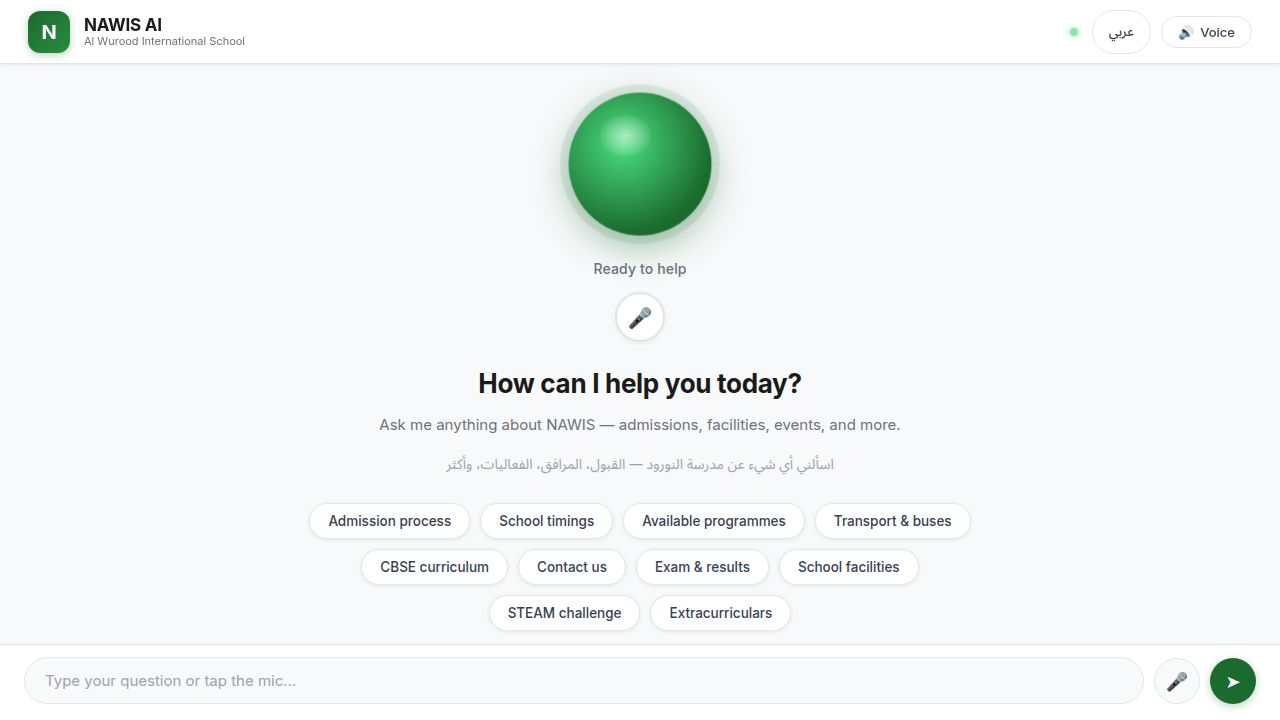
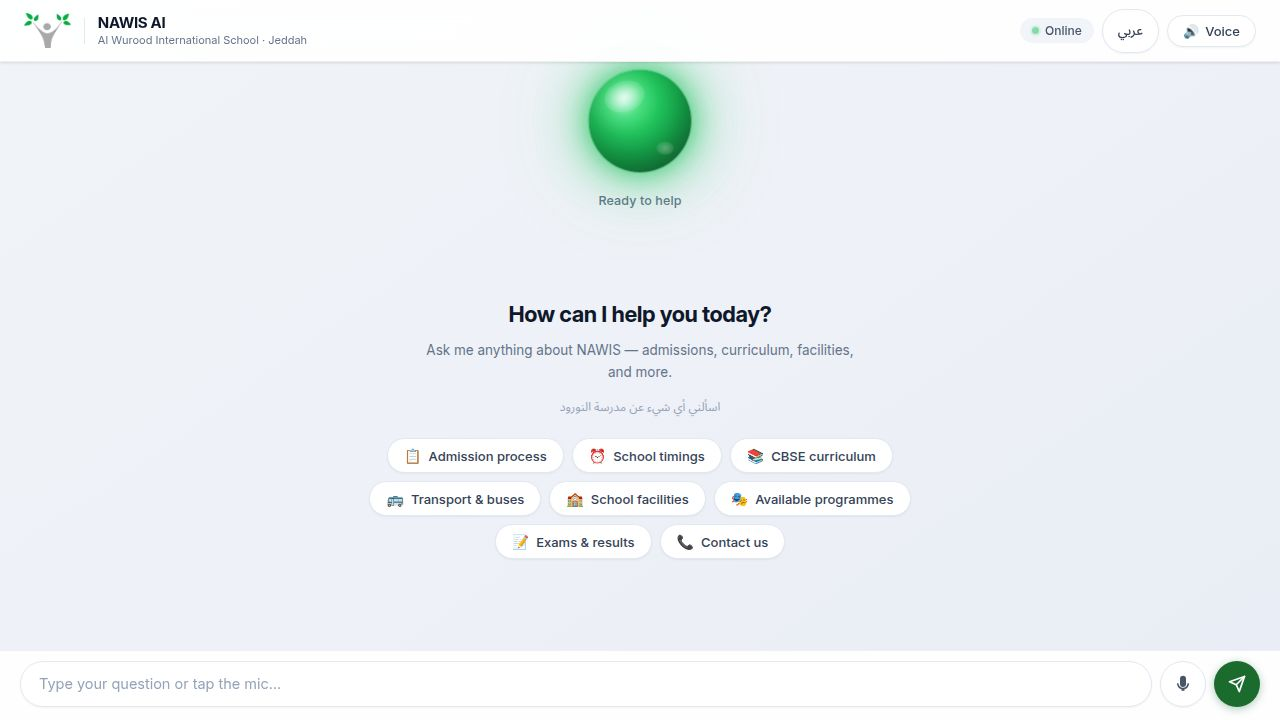
Improve website appearance and functionality with natural speech and better mic support
Replace edge-tts with browser-based speechSynthesis for natural text-to-speech, and implement Groq Whisper for accurate speech-to-text in English and Arabic. Updates school logo, refines UI for a modern look, and modifies office hours and grade structure details.

Replit-Commit-Author: Agent
Replit-Commit-Session-Id: 8fb9a503-dcf3-4fd8-90f7-8d00ba033f44
Replit-Commit-Checkpoint-Type: full_checkpoint
Replit-Commit-Event-Id: fba4415d-84d5-42d1-91ec-d04c524ee6c6
Replit-Commit-Screenshot-Url: https://storage.googleapis.com/screenshot-production-us-central1/a3e7052e-6b7f-4f90-a12a-8108f5e4623d/8fb9a503-dcf3-4fd8-90f7-8d00ba033f44/VqQ2DJJ
Replit-Helium-Checkpoint-Created: true

diff --git a/artifacts/nawis-ai/frontend/index.html b/artifacts/nawis-ai/frontend/index.html
@@ -531,9 +531,21 @@ const T = {
    STATE
 ───────────────────────────────────────── */
 let lang='en', ttsOn=true, isRec=false;
-let mediaRec=null, audioChunks=[], curAudio=null, busy=false;
+let mediaRec=null, audioChunks=[], curAudio=null, curUtter=null, busy=false;
 const app=document.getElementById('app');
 const orbLbl=document.getElementById('orb-lbl');
+
+/* Pre-load voices as soon as possible (browser may lazy-load) */
+let voicesLoaded=false;
+function loadVoices(){
+  const v=window.speechSynthesis?.getVoices()||[];
+  if(v.length>0)voicesLoaded=true;
+  return v;
+}
+if(window.speechSynthesis){
+  loadVoices();
+  window.speechSynthesis.onvoiceschanged=()=>{loadVoices();};
+}
 
 function setState(s){
   app.setAttribute('data-state',s);
@@ -576,7 +588,12 @@ function toggleTTS(){
   ttsOn=!ttsOn;
   $('tts-ico').textContent=ttsOn?'🔊':'🔇';
   $('tts-btn').classList.toggle('muted',!ttsOn);
-  if(!ttsOn&&curAudio){curAudio.pause();curAudio=null;setState('idle');}
+  if(!ttsOn){stopSpeaking();setState('idle');}
+}
+
+function stopSpeaking(){
+  if(curAudio){curAudio.pause();URL.revokeObjectURL(curAudio.src);curAudio=null;}
+  if(curUtter){window.speechSynthesis?.cancel();curUtter=null;}
 }
 
 /* ─────────────────────────────────────────
@@ -643,7 +660,7 @@ function scrollDown(){
 async function sendText(text){
   const t=text.trim();if(!t||busy)return;
   busy=true;$('user-input').value='';
-  if(curAudio){curAudio.pause();curAudio=null;}
+  stopSpeaking();
   addMsg('user',t);setState('thinking');addTyping();
   try{
     const r=await fetch('/chat',{method:'POST',headers:{'Content-Type':'application/json'},body:JSON.stringify({message:t,language:lang})});
@@ -662,56 +679,159 @@ function sendMessage(){const v=$('user-input').value.trim();if(v)sendText(v);}
 function onEnter(e){if(e.key==='Enter'&&!e.shiftKey){e.preventDefault();sendMessage();}}
 
 /* ─────────────────────────────────────────
-   TTS — edge-tts via /tts backend
+   TTS — browser speechSynthesis (primary)
+   Best neural voices on Windows: Edge/Chrome use Microsoft Natural voices.
+   Falls back to /tts (edge-tts backend) if browser synthesis not available.
 ───────────────────────────────────────── */
+
+/* Pick the best available voice for a language */
+function pickVoice(langCode){
+  const voices=window.speechSynthesis?.getVoices()||[];
+  const isAr=langCode==='ar';
+  const pref=isAr
+    ?['ar-SA','ar-EG','ar-AE','ar']
+    :['en-US','en-GB','en-AU','en'];
+
+  /* Priority order: Neural > Premium > Standard */
+  const keywords=['Neural','Natural','Premium','Enhanced','Online'];
+
+  for(const kw of keywords){
+    for(const lc of pref){
+      const v=voices.find(v=>v.lang.startsWith(lc)&&v.name.includes(kw)&&!v.name.toLowerCase().includes('zira'));
+      if(v)return v;
+    }
+  }
+  /* Any voice matching lang */
+  for(const lc of pref){
+    const v=voices.find(v=>v.lang.startsWith(lc));
+    if(v)return v;
+  }
+  return voices[0]||null;
+}
+
 async function speakText(text){
   if(!ttsOn){setState('idle');return;}
   setState('speaking');
+
+  /* ── Try browser speechSynthesis first ── */
+  if(window.speechSynthesis){
+    /* Give browser a moment to have voices if not yet loaded */
+    if(!voicesLoaded){
+      await new Promise(r=>{
+        const check=()=>{if(window.speechSynthesis.getVoices().length>0){voicesLoaded=true;r();}};
+        check();
+        window.speechSynthesis.onvoiceschanged=()=>check();
+        setTimeout(r,1500);
+      });
+    }
+    const voice=pickVoice(lang);
+    const utter=new SpeechSynthesisUtterance(text.slice(0,800));
+    utter.lang=lang==='ar'?'ar-SA':'en-US';
+    utter.rate=1.0;
+    utter.pitch=1.0;
+    utter.volume=1.0;
+    if(voice)utter.voice=voice;
+    curUtter=utter;
+    return new Promise(resolve=>{
+      utter.onend=()=>{curUtter=null;setState('idle');resolve();};
+      utter.onerror=async(e)=>{
+        console.warn('Browser TTS error:',e.error,'. Trying backend TTS…');
+        curUtter=null;
+        await speakViaBackend(text);
+        resolve();
+      };
+      /* Chrome bug: synthesis stalls after ~15s — keep it alive */
+      const keepAlive=setInterval(()=>{
+        if(!window.speechSynthesis.speaking){clearInterval(keepAlive);return;}
+        window.speechSynthesis.pause();
+        window.speechSynthesis.resume();
+      },10000);
+      utter.onend=()=>{clearInterval(keepAlive);curUtter=null;setState('idle');resolve();};
+      window.speechSynthesis.speak(utter);
+    });
+  }else{
+    await speakViaBackend(text);
+  }
+}
+
+/* Backend TTS fallback — great when running locally (edge-tts has network access) */
+async function speakViaBackend(text){
+  setState('speaking');
   try{
-    const r=await fetch('/tts?'+new URLSearchParams({text:text.slice(0,600),lang}));
-    if(!r.ok)throw new Error('TTS failed');
+    const r=await fetch('/tts?'+new URLSearchParams({text:text.slice(0,600),lang}),{signal:AbortSignal.timeout(12000)});
+    if(!r.ok)throw new Error('TTS HTTP '+r.status);
     const blob=await r.blob();
+    if(!blob.size)throw new Error('Empty audio');
     const url=URL.createObjectURL(blob);
     curAudio=new Audio(url);
-    curAudio.onended=()=>{setState('idle');URL.revokeObjectURL(url);curAudio=null;};
-    curAudio.onerror=()=>{setState('idle');curAudio=null;};
-    await curAudio.play();
-  }catch(e){console.warn('TTS:',e);setState('idle');}
+    await new Promise((res,rej)=>{
+      curAudio.onended=()=>{URL.revokeObjectURL(url);curAudio=null;setState('idle');res();};
+      curAudio.onerror=()=>{URL.revokeObjectURL(url);curAudio=null;setState('idle');res();};
+      curAudio.play().catch(rej);
+    });
+  }catch(e){
+    console.warn('Backend TTS failed:',e);
+    setState('idle');
+  }
 }
 
 /* ─────────────────────────────────────────
    STT — MediaRecorder → Groq Whisper
+   Uses MediaRecorder API (works in all modern browsers after mic permission).
+   Audio is sent to /stt which calls Groq whisper-large-v3-turbo.
 ───────────────────────────────────────── */
 async function toggleMic(){isRec?stopRec():await startRec();}
 
 async function startRec(){
   if(busy)return;
+  stopSpeaking();
+
+  /* Ensure MediaRecorder is supported */
+  if(!navigator.mediaDevices?.getUserMedia||!window.MediaRecorder){
+    toast('Voice input is not supported in this browser.','error');return;
+  }
+
   let stream;
-  try{stream=await navigator.mediaDevices.getUserMedia({audio:{channelCount:1,sampleRate:16000},video:false});}
-  catch(e){
-    if(e.name==='NotAllowedError'||e.name==='PermissionDeniedError'){toast(T[lang].tMicDeny,'error');}
-    else{toast(T[lang].tMicErr,'error');}
+  try{
+    stream=await navigator.mediaDevices.getUserMedia({audio:true,video:false});
+  }catch(e){
+    if(e.name==='NotAllowedError'||e.name==='PermissionDeniedError'){
+      toast(T[lang].tMicDeny,'error');
+    }else{
+      toast(T[lang].tMicErr,'error');
+      console.error('Mic error:',e);
+    }
     return;
   }
-  if(curAudio){curAudio.pause();curAudio=null;}
+
   audioChunks=[];isRec=true;setState('listening');
   $('rec-ind').classList.add('on');
-  $('user-input').style.opacity='.3';
+  $('user-input').style.opacity='.35';
   $('mic-btn').classList.add('rec');
   toast(T[lang].tMicStart);
 
-  const mime=['audio/webm;codecs=opus','audio/webm','audio/ogg','audio/mp4']
-    .find(m=>MediaRecorder.isTypeSupported(m))||'';
-  mediaRec=new MediaRecorder(stream,mime?{mimeType:mime}:{});
-  mediaRec.ondataavailable=e=>{if(e.data.size>0)audioChunks.push(e.data);};
+  /* Pick best supported MIME — Groq Whisper accepts webm/ogg/mp4/flac/mp3/wav */
+  const mime=['audio/webm;codecs=opus','audio/webm','audio/ogg;codecs=opus','audio/ogg','audio/mp4']
+    .find(m=>{try{return MediaRecorder.isTypeSupported(m);}catch{return false;}})||'';
+
+  try{
+    mediaRec=new MediaRecorder(stream,mime?{mimeType:mime}:{});
+  }catch(e){
+    mediaRec=new MediaRecorder(stream);
+  }
+
+  mediaRec.ondataavailable=e=>{if(e.data&&e.data.size>0)audioChunks.push(e.data);};
   mediaRec.onstop=async()=>{stream.getTracks().forEach(t=>t.stop());await transcribe();};
-  mediaRec.start();
-  setTimeout(()=>{if(isRec)stopRec();},12000);
+  mediaRec.start(200); /* collect in 200ms chunks for reliability */
+
+  /* Auto-stop after 14 seconds */
+  setTimeout(()=>{if(isRec)stopRec();},14000);
 }
 
 function stopRec(){
   if(!isRec||!mediaRec)return;
-  isRec=false;mediaRec.stop();
+  isRec=false;
+  try{if(mediaRec.state!=='inactive')mediaRec.stop();}catch(e){console.warn(e);}
   $('rec-ind').classList.remove('on');
   $('user-input').style.opacity='1';
   $('mic-btn').classList.remove('rec');
@@ -720,19 +840,35 @@ function stopRec(){
 async function transcribe(){
   if(!audioChunks.length){setState('idle');toast(T[lang].tMicErr,'error');return;}
   setState('thinking');toast(T[lang].tXcribe);
-  const mime=audioChunks[0].type||'audio/webm';
-  const ext=mime.includes('ogg')?'ogg':mime.includes('mp4')?'mp4':'webm';
-  const blob=new Blob(audioChunks,{type:mime});audioChunks=[];
-  const fd=new FormData();fd.append('audio',blob,`rec.${ext}`);
+
+  const type=audioChunks[0].type||'audio/webm';
+  const ext=type.includes('ogg')?'ogg':type.includes('mp4')?'mp4':'webm';
+  const blob=new Blob(audioChunks,{type});
+  audioChunks=[];
+
+  if(blob.size<300){setState('idle');toast(T[lang].tMicErr,'error');return;}
+
+  const fd=new FormData();
+  fd.append('audio',blob,`recording.${ext}`);
+
   try{
-    const r=await fetch(`/stt?lang=${lang}`,{method:'POST',body:fd});
-    if(!r.ok)throw new Error('STT '+r.status);
+    const r=await fetch(`/stt?lang=${lang}`,{method:'POST',body:fd,signal:AbortSignal.timeout(20000)});
+    if(!r.ok)throw new Error('STT HTTP '+r.status);
     const d=await r.json();
+    if(d.error){console.warn('STT error:',d.error);}
     if(d.text?.trim()){
       $('user-input').value=d.text.trim();
-      setState('idle');await sendText(d.text.trim());
-    }else{setState('idle');toast(T[lang].tMicErr,'error');}
-  }catch(e){console.error('STT:',e);setState('idle');toast(T[lang].tConn,'error');}
+      setState('idle');
+      await sendText(d.text.trim());
+    }else{
+      setState('idle');
+      toast(T[lang].tMicErr,'error');
+    }
+  }catch(e){
+    console.error('STT fetch:',e);
+    setState('idle');
+    toast(T[lang].tConn,'error');
+  }
 }
 
 /* ─────────────────────────────────────────

diff --git a/artifacts/nawis-ai/app.py b/artifacts/nawis-ai/app.py
@@ -339,7 +339,8 @@ async def speech_to_text(audio: UploadFile = File(...), lang: str = Query("en"))
 
 @app.get("/tts")
 async def text_to_speech(text: str = Query(...), lang: str = Query("en")):
-    """Stream natural TTS audio via edge-tts (Microsoft Neural voices)."""
+    """Stream natural TTS audio via edge-tts (Microsoft Neural voices).
+    Used when running locally — in Replit the browser handles TTS directly."""
     try:
         import edge_tts
     except ImportError:
@@ -350,16 +351,23 @@ async def text_to_speech(text: str = Query(...), lang: str = Query("en")):
     if not clean_text:
         raise HTTPException(400, "Empty text")
 
-    async def audio_stream():
+    buf = bytearray()
+    try:
         communicate = edge_tts.Communicate(text=clean_text, voice=voice, rate="+2%")
         async for chunk in communicate.stream():
             if chunk["type"] == "audio":
-                yield chunk["data"]
+                buf.extend(chunk["data"])
+    except Exception as exc:
+        logger.error("edge-tts error: %s", exc)
+        raise HTTPException(502, f"TTS upstream error: {exc}")
+
+    if not buf:
+        raise HTTPException(502, "edge-tts returned no audio data")
 
     return StreamingResponse(
-        audio_stream(),
+        iter([bytes(buf)]),
         media_type="audio/mpeg",
-        headers={"Cache-Control": "no-cache, no-store, must-revalidate"},
+        headers={"Cache-Control": "no-cache, no-store, must-revalidate", "Content-Length": str(len(buf))},
     )
 
 